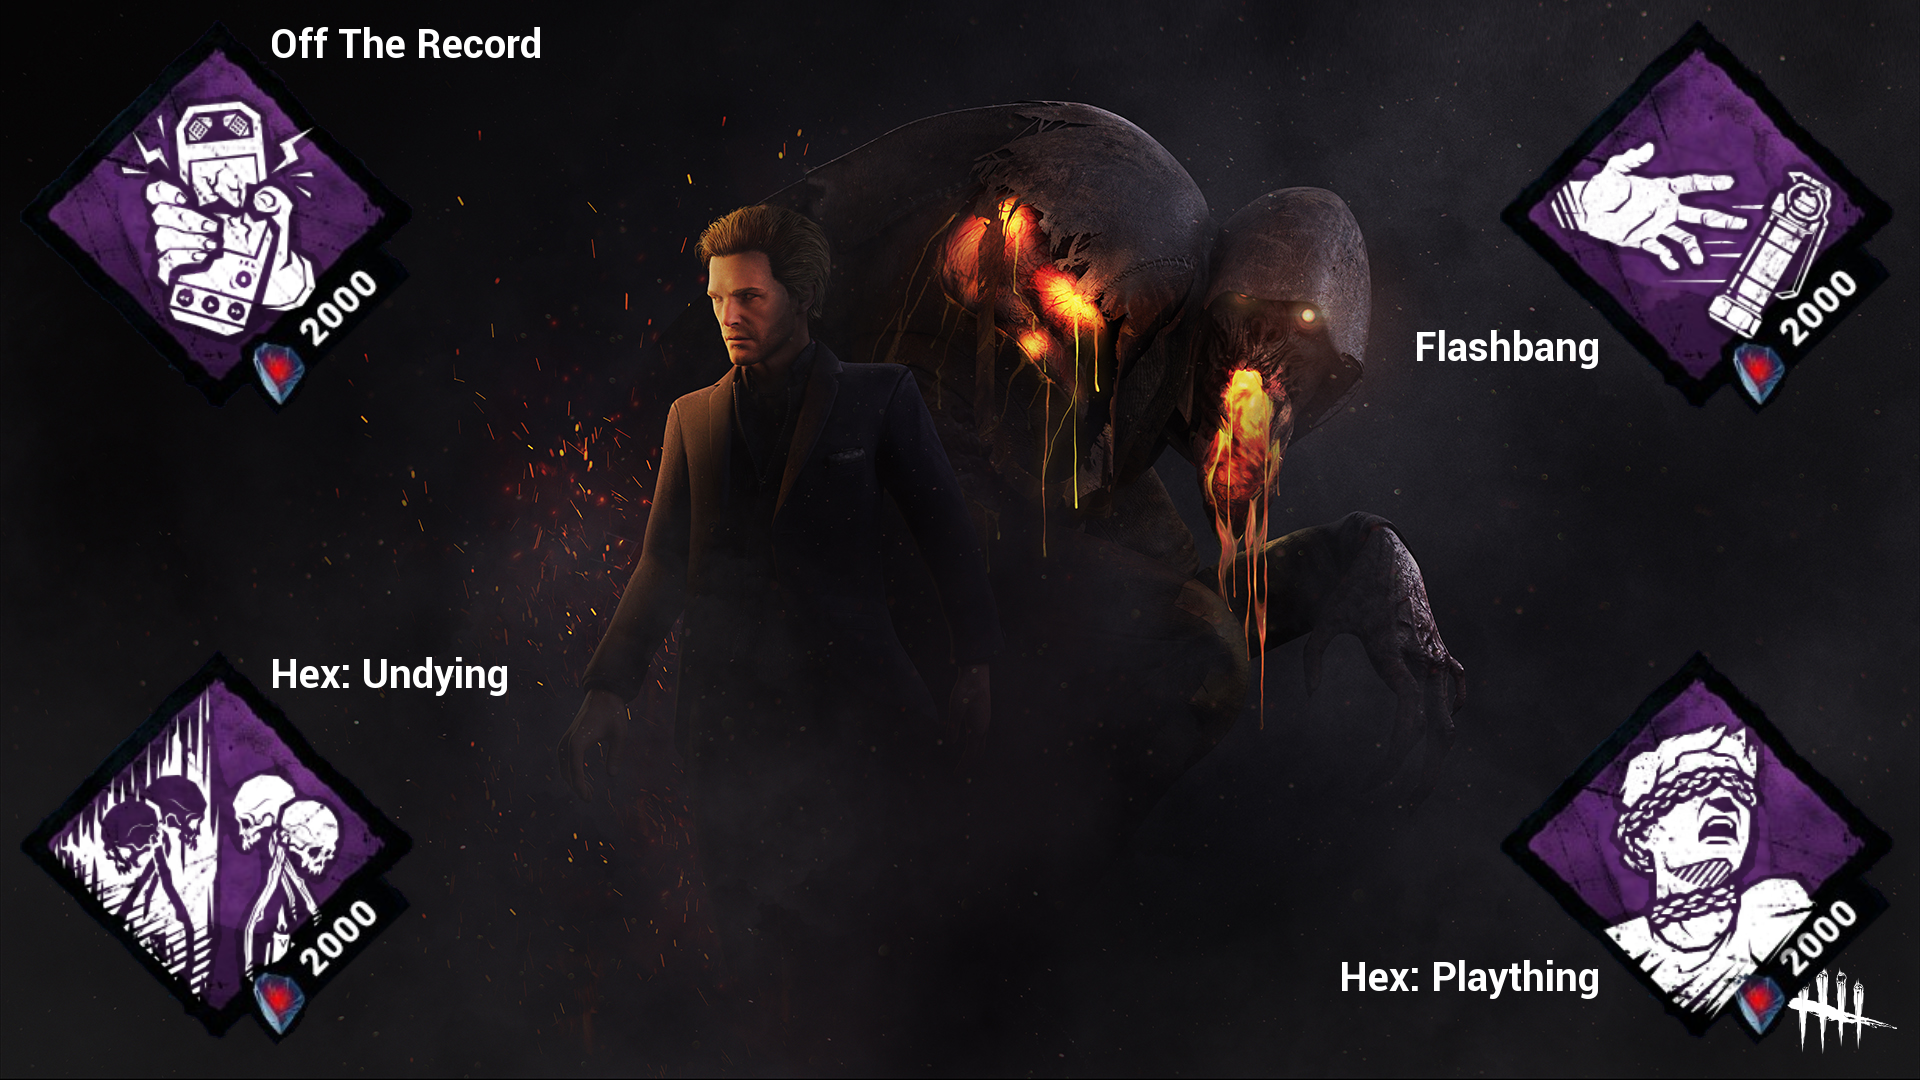
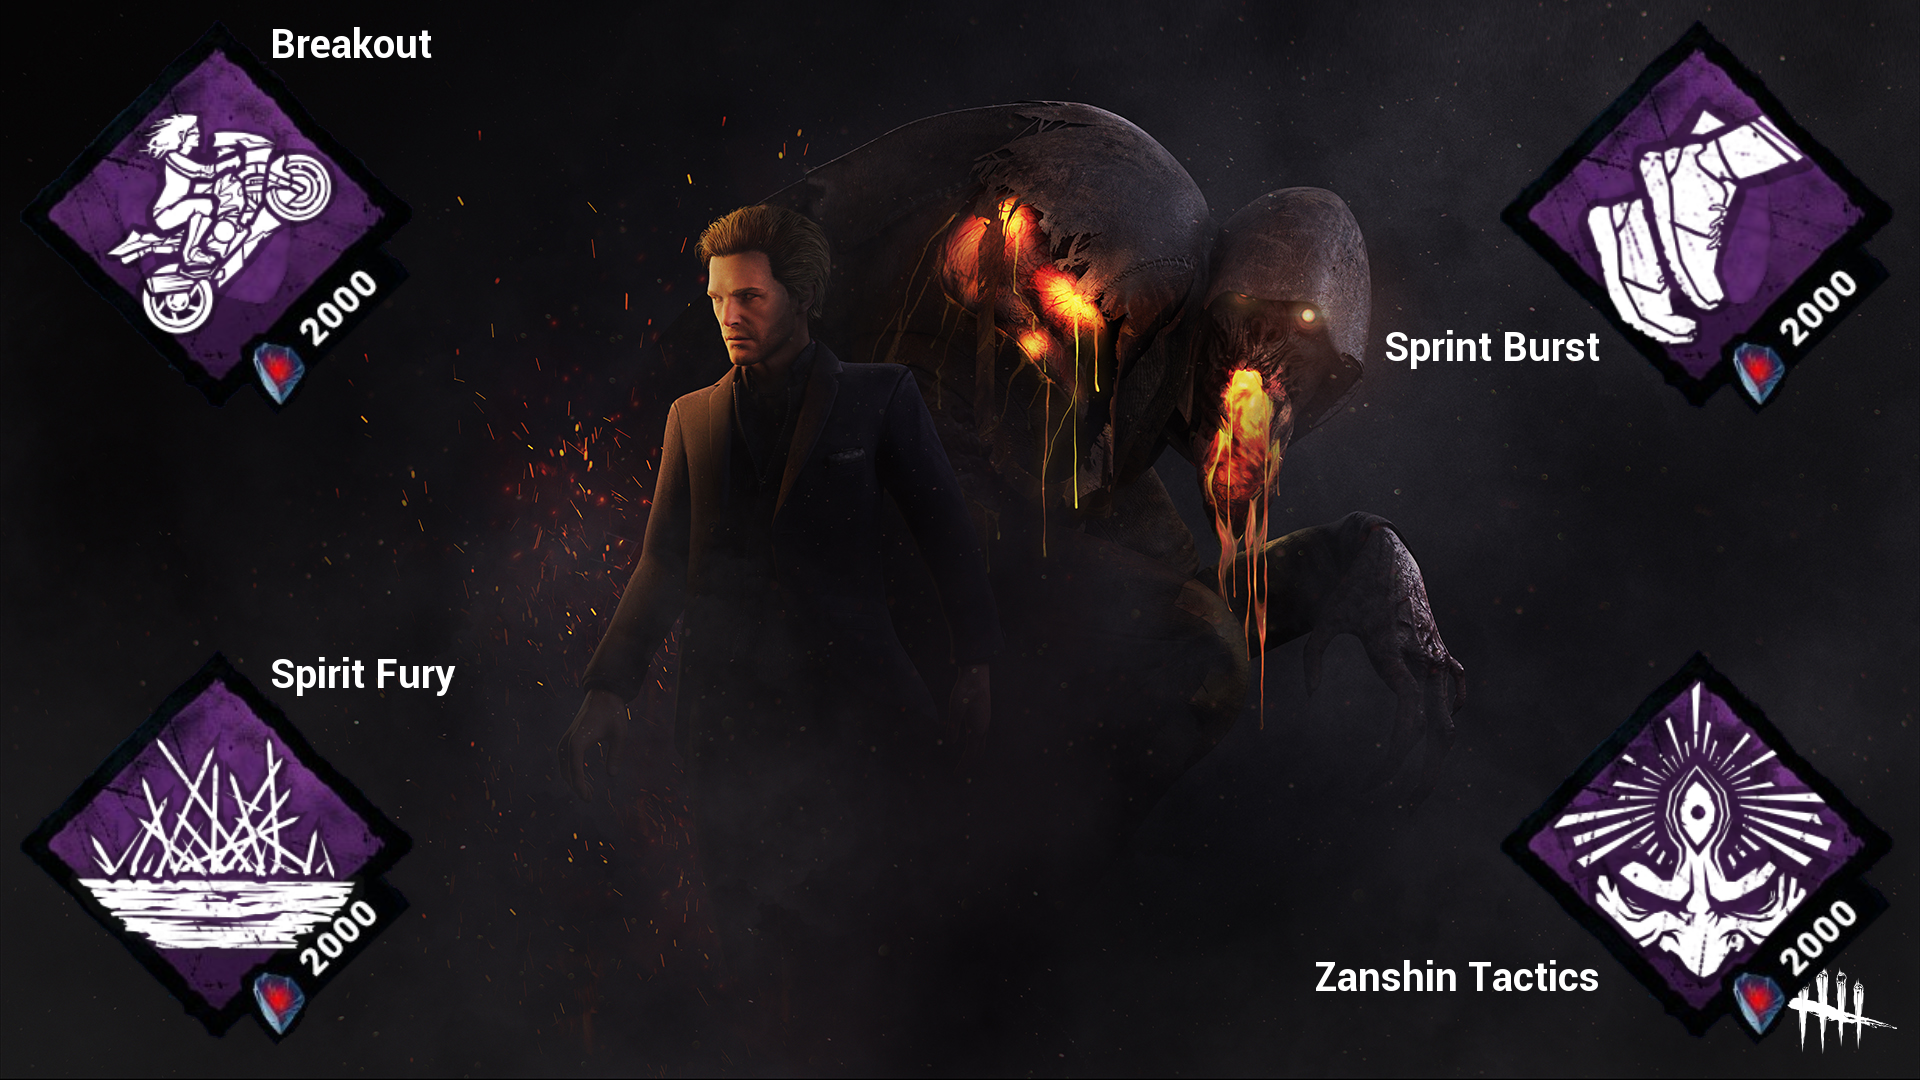
fixing deffer error and changing log patterns

diff --git a/src/Commmands/Games/dbd.ts b/src/Commmands/Games/dbd.ts
@@ -19,7 +19,7 @@ const cmd: Command = {
 	async execute(interaction: ChatInputCommandInteraction) {
 		logging.debug(interaction.options.data.map(x => JSON.stringify(x)).join("\n"));
 		if (interaction.options.getSubcommand() === `shrine`) {
-			interaction.deferReply();
+			await interaction.deferReply();
 			logging.info(`Deferred reply`);
 
 			const response = await axios.get(`${trickyAPIBase}shrine`).catch(logging.errorUncaught);
@@ -43,8 +43,10 @@ const cmd: Command = {
 						return WikiSOS.perks[index].toLowerCase() === element.name.toLowerCase();
 					});
 				} else {
+					
 					perkData = dbd.perks.find(element => {
-						return element.api_name.toLowerCase() === id.toLowerCase();
+						
+						return element.api_name.toLowerCase() === APIperkmap[id] || (element.api_name.toLowerCase() === id.toLowerCase());
 					}); // as perkInfo_result;
 				}
 
@@ -99,7 +101,7 @@ const cmd: Command = {
 			const shrine_img = await MakeShrineImage(config.shrineImgPaths, perks[0], perks[1]!, perks[2]!, perks[3]!).catch(logging.errorUncaught);
 			if (!shrine_img) {
 				logging.error(`shrine image failed to generate`);
-				interaction.reply(`a biblioteca é engraçada.`);
+				interaction.editReply(`a biblioteca é engraçada.`);
 				return;
 			}
 			logging.debug(`jimp obj: ${shrine_img}`);
@@ -369,3 +371,7 @@ async function GetPerkNames(): Promise<false | WikiOBJ> {
 	}
 	return { perks: arr, timeoutStr: shrineTimout.innerText };
 }
+
+ const APIperkmap:{[mapval: string]:string} = {
+	"Sprint_Burst":"sprintburst"
+ }

diff --git a/src/Structures/Helpers/Logging.ts b/src/Structures/Helpers/Logging.ts
@@ -1,6 +1,7 @@
 import { createWriteStream } from "fs";
-const output = createWriteStream("./stdout.log");
-const errorOutput = createWriteStream("./stderr.log");
+const launchstamp = Date.now()
+const output = createWriteStream(`./Logs/${launchstamp}_out.log`);
+const errorOutput = createWriteStream(`./Logs/${launchstamp}_err.log`);
 // Custom simple logger
 
 export class Logger {
